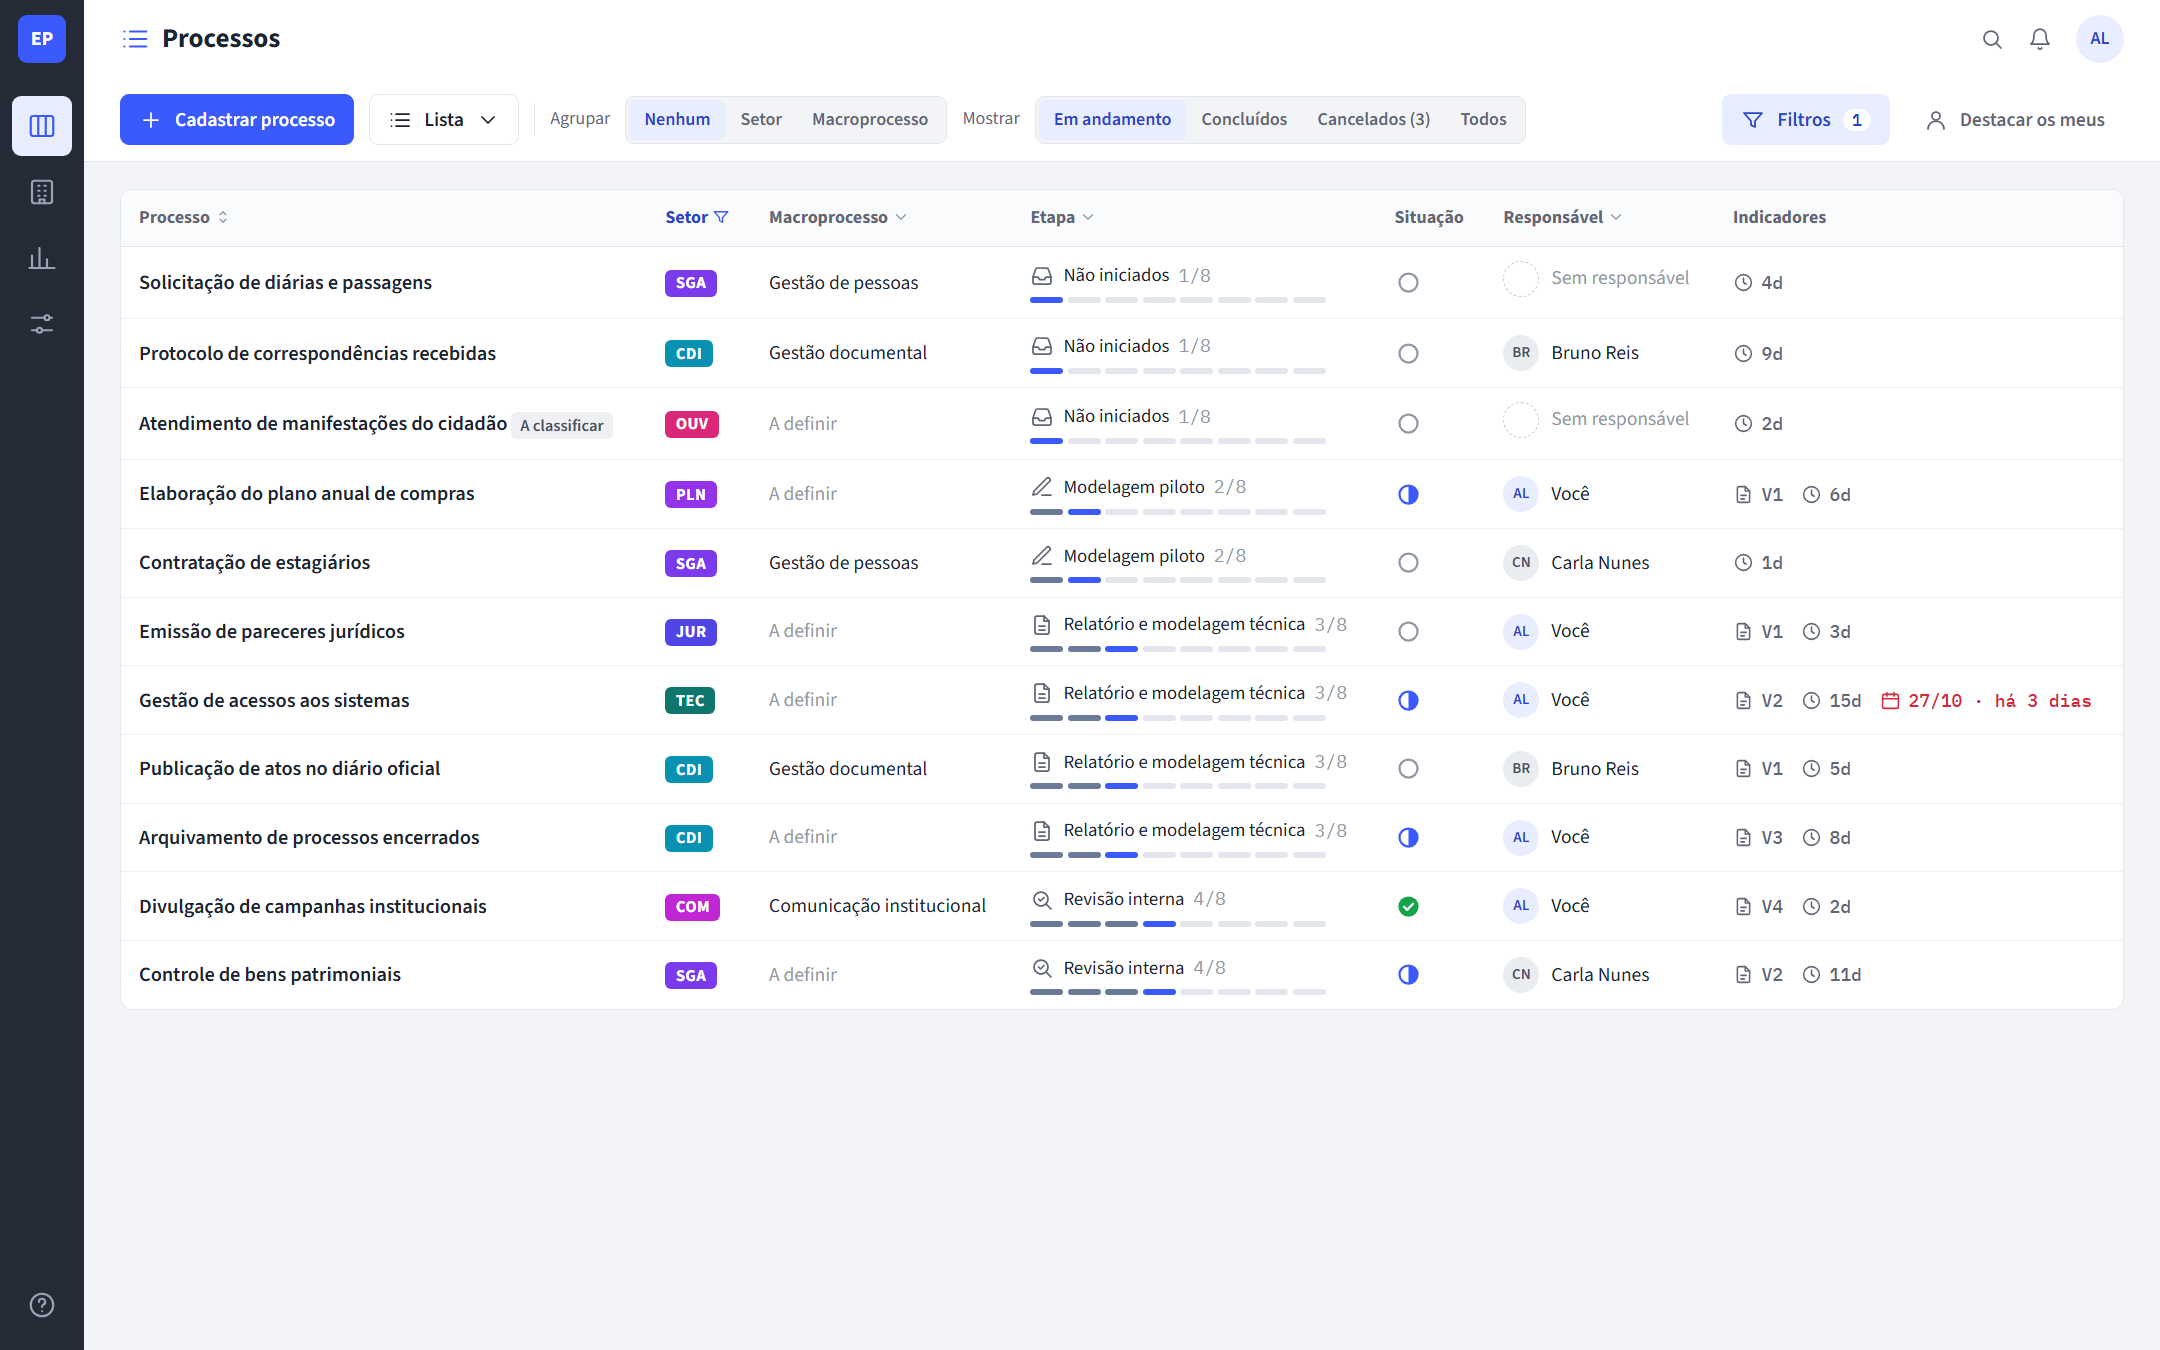
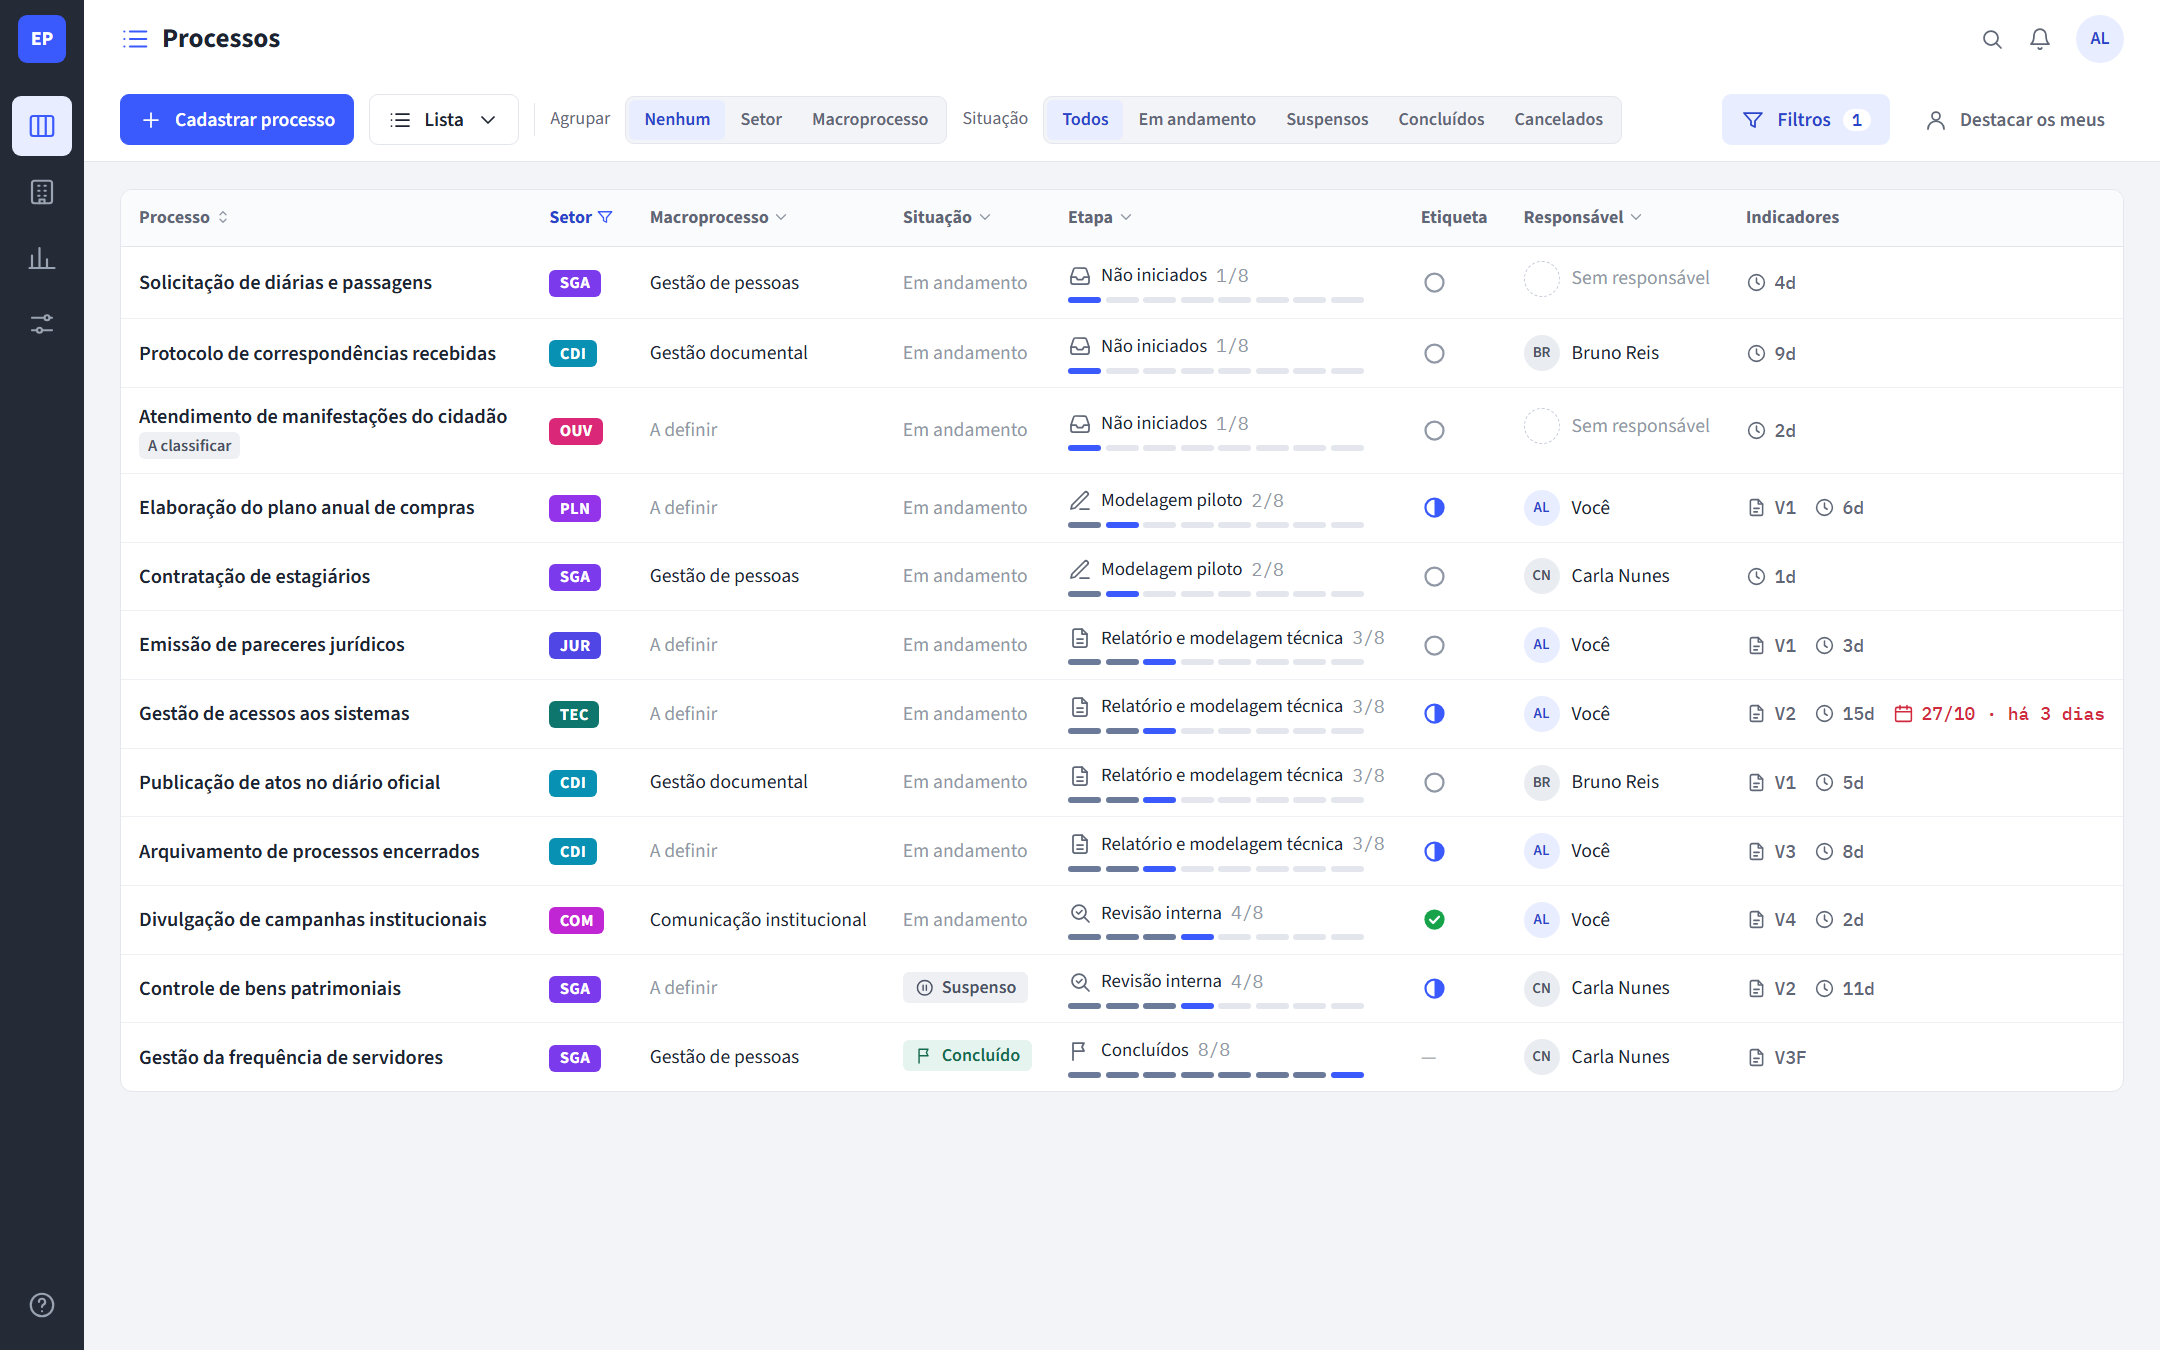
proposta visual da Lista: separa situação do processo e etiqueta da etapa

diff --git a/.scratch/proposta-visual/lista-e-cadastros.html b/.scratch/proposta-visual/lista-e-cadastros.html
@@ -34,14 +34,14 @@ svg.i{width:16px;height:16px;fill:none;stroke:currentColor;stroke-width:1.75;str
 .busca{display:inline-flex;align-items:center;gap:8px;height:34px;width:260px;border:1px solid var(--linha);border-radius:6px;padding:0 10px;color:var(--inativo);font-size:13px}
 .area{overflow:hidden;padding:18px 24px}
 .setor{font:700 11px 'Source Sans 3';letter-spacing:.3px;color:#fff;border-radius:4px;padding:1px 7px;display:inline-block}
-.tag{font:600 11px 'Source Sans 3';border-radius:4px;padding:1px 6px;background:#eef0f4;color:#4a5163}
+.tag{white-space:nowrap;display:inline-block;font:600 11px 'Source Sans 3';border-radius:4px;padding:1px 6px;background:#eef0f4;color:#4a5163}
 .mono{font-family:var(--mono);font-size:12px}
 /* Tabela */
 .tab{background:#fff;border:1px solid var(--linha);border-radius:8px;overflow:hidden;width:100%;border-collapse:separate;border-spacing:0}
 .tab th{position:sticky;top:0;background:#fafbfc;text-align:left;font-size:12px;font-weight:700;color:var(--texto-2);padding:10px 12px;border-bottom:1px solid var(--linha);white-space:nowrap}
 .tab th .i{width:12px;height:12px;vertical-align:-2px;color:var(--inativo)}.tab th.filtrada{color:var(--azul-escuro)}.tab th.filtrada .i{color:var(--azul)}
 .tab td{padding:9px 12px;border-bottom:1px solid #eef0f4;vertical-align:middle;white-space:nowrap}
-.tab tr:last-child td{border-bottom:0}
+.tab tr:last-child td{border-bottom:0}.tab td:first-child{white-space:normal;max-width:300px}
 .nome{font-weight:600;font-size:13.5px;color:var(--texto)}
 .muted{color:var(--inativo)}
 .etapa{display:flex;flex-direction:column;gap:5px;min-width:210px}.etapa .t{display:flex;align-items:center;gap:6px;font-size:12.5px}.etapa .t svg{color:var(--texto-2)}
@@ -49,6 +49,8 @@ svg.i{width:16px;height:16px;fill:none;stroke:currentColor;stroke-width:1.75;str
 .pessoa{display:inline-flex;align-items:center;gap:8px}
 .ind{display:inline-flex;align-items:center;gap:5px;font:500 12px var(--mono);color:var(--texto-2)}.ind.atraso{color:var(--atraso)}.ind.vence{color:var(--vence)}.ind svg{width:14px;height:14px}
 .st svg{width:18px;height:18px;display:block}
+.sit{display:inline-flex;align-items:center;gap:5px;font:600 12px 'Source Sans 3';border-radius:4px;padding:2px 8px}.sit svg{width:13px;height:13px}
+.sit-suspenso{background:#eef0f4;color:#4a5163}.sit-concluido{background:#e6f4ef;color:#166a4d}.sit-cancelado{background:#f3f4f6;color:var(--inativo)}
 .grupo td{background:#f6f7f9;font-weight:700;font-size:13.5px;padding:10px 12px}
 .grupo .c{display:flex;align-items:center;gap:8px}.grupo .n{font:500 12px var(--mono);color:var(--texto-2);font-weight:500}
 .sub td{font-weight:600;color:var(--texto-2);padding:8px 12px 8px 40px;font-size:12.5px}
@@ -112,6 +114,9 @@ svg.i{width:16px;height:16px;fill:none;stroke:currentColor;stroke-width:1.75;str
 <symbol id="e2" viewBox="0 0 24 24"><path d="M14 3H7a2 2 0 0 0-2 2v14a2 2 0 0 0 2 2h10a2 2 0 0 0 2-2V8z"/><path d="M14 3v5h5M9 13h6M9 17h6"/></symbol>
 <symbol id="e3" viewBox="0 0 24 24"><circle cx="11" cy="11" r="7"/><path d="M21 21l-4.3-4.3M8.5 11l2 2 3.5-3.5"/></symbol>
 <symbol id="e4" viewBox="0 0 24 24"><circle cx="9" cy="8" r="3.5"/><path d="M2.5 20a6.5 6.5 0 0 1 13 0M16 4.5a3.5 3.5 0 0 1 0 7M18 14a6 6 0 0 1 3.5 6"/></symbol>
+<symbol id="e6" viewBox="0 0 24 24"><path d="M22 2L11 13M22 2l-7 20-4-9-9-4z"/></symbol>
+<symbol id="e7" viewBox="0 0 24 24"><path d="M5 21V4M5 4h11l-2 4 2 4H5"/></symbol>
+<symbol id="bandeira" viewBox="0 0 24 24"><path d="M5 21V4M5 4h11l-2 4 2 4H5"/></symbol>
 <symbol id="e5" viewBox="0 0 24 24"><path d="M12 3l2.4 1.8 3-.2.9 2.9 2.5 1.7-1 2.8 1 2.8-2.5 1.7-.9 2.9-3-.2L12 21l-2.4-1.8-3 .2-.9-2.9L3.2 14.8l1-2.8-1-2.8 2.5-1.7.9-2.9 3 .2z"/><path d="M8.5 12l2.3 2.3 4.7-4.6"/></symbol>
 </svg>
 <aside class="lateral" id="lateral"></aside>
@@ -119,7 +124,10 @@ svg.i{width:16px;height:16px;fill:none;stroke:currentColor;stroke-width:1.75;str
 <div class="barra" id="barra"></div>
 <main class="area" id="area"></main>
 <script>
-const ETAPAS=['Não iniciados','Modelagem piloto','Relatório e modelagem técnica','Revisão interna','Validação com o setor','Aprovação pelo setor']
+const ETAPAS=['Não iniciados','Modelagem piloto','Relatório e modelagem técnica','Revisão interna','Validação com o setor','Aprovação pelo setor','Publicação','Concluídos']
+// Situação do processo (CONTEXT.md): em andamento, suspenso, cancelado ou concluído; não confundir com a etiqueta da etapa (A fazer, Iniciado, Finalizado).
+const SITUACAO={andamento:['Em andamento',''],suspenso:['Suspenso','pausa'],cancelado:['Cancelado','x'],concluido:['Concluído','bandeira']}
+const situacao=s=>s==='andamento'?'<span class="muted">Em andamento</span>':`<span class="sit sit-${s}">${ic(SITUACAO[s][1])}${SITUACAO[s][0]}</span>`
 // Paleta viva só para os selos de setor (a mesma da proposta 6).
 const SETORES={SGA:['Secretaria de Gestão Administrativa','#7c3aed'],CDI:['Coordenadoria de Documentação e Informação','#0891b2'],OUV:['Ouvidoria Geral','#db2777'],
 PLN:['Diretoria de Planejamento','#9333ea'],JUR:['Assessoria Jurídica','#4f46e5'],TEC:['Diretoria de Tecnologia','#0f766e'],COM:['Assessoria de Comunicação','#c026d3']}
@@ -130,7 +138,7 @@ const P=[['Solicitação de diárias e passagens','SGA',0,'a','',null,4,null,'Ge
 ['Contratação de estagiários','SGA',1,'a','CN',null,1,null,'Gestão de pessoas'],['Emissão de pareceres jurídicos','JUR',2,'a','AL','V1',3,null,'A definir'],
 ['Gestão de acessos aos sistemas','TEC',2,'i','AL','V2',15,['atraso','27/10 · há 3 dias'],'A definir'],['Publicação de atos no diário oficial','CDI',2,'a','BR','V1',5,null,'Gestão documental'],
 ['Arquivamento de processos encerrados','CDI',2,'i','AL','V3',8,null,'A definir'],['Divulgação de campanhas institucionais','COM',3,'f','AL','V4',2,null,'Comunicação institucional'],
-['Controle de bens patrimoniais','SGA',3,'i','CN','V2',11,null,'A definir'],['Monitoramento de indicadores','PLN',4,'a','BR','V4F',3,['vence','01/11 · em 2 dias'],'A definir'],
+['Controle de bens patrimoniais','SGA',3,'i','CN','V2',11,null,'A definir',null,'suspenso'],['Gestão da frequência de servidores','SGA',7,null,'CN','V3F',null,null,'Gestão de pessoas',null,'concluido'],['Monitoramento de indicadores','PLN',4,'a','BR','V4F',3,['vence','01/11 · em 2 dias'],'A definir'],
 ['Revisão de contratos de serviços','JUR',5,'i','CN','V5',7,null,'A definir']]
 const ROT={a:'A fazer',i:'Iniciado',f:'Finalizado'}
 const ST={a:'<circle cx="12" cy="12" r="8" fill="none" stroke="#9098a6" stroke-width="2"/>',i:'<circle cx="12" cy="12" r="8" fill="none" stroke="#3a5afe" stroke-width="2"/><path d="M12 4a8 8 0 0 1 0 16z" fill="#3a5afe"/>',
@@ -152,22 +160,22 @@ function moldura(area,titulo,icone){
 function barraDaLista(agrupar){document.getElementById('barra').innerHTML=`<button class="btn prim">${ic('mais')}Cadastrar processo</button>
  <button class="btn">${ic('lista')}Lista${ic('seta')}</button><span class="sep"></span>
  <span class="rot">Agrupar</span><span class="seg">${['Nenhum','Setor','Macroprocesso'].map(o=>`<button class="${o===agrupar?'sim':''}">${o}</button>`).join('')}</span>
- <span class="rot">Mostrar</span><span class="seg">${['Em andamento','Concluídos','Cancelados (3)','Todos'].map((o,i)=>`<button class="${i===0?'sim':''}">${o}</button>`).join('')}</span>
+ <span class="rot">Situação</span><span class="seg">${['Todos','Em andamento','Suspensos','Concluídos','Cancelados'].map((o,i)=>`<button class="${i===0?'sim':''}">${o}</button>`).join('')}</span>
  <span class="dir-barra">${agrupar==='Nenhum'?'':`<button class="btn leve icone" title="Abrir todos">${ic('camadas')}</button>`}<button class="btn on">${ic('filtro')}Filtros <em>1</em></button><button class="btn leve">${ic('pessoa')}Destacar os meus</button></span>`}
 // 'setor' esconde as colunas Setor e Macroprocesso (o grupo e o subgrupo já dizem); 'macro' esconde só Macroprocesso.
-const cabecalho=esconder=>`<tr><th>Processo ${ic('ordem')}</th>${esconder==='setor'?'':`<th class="filtrada">Setor ${ic('filtro')}</th>`}${esconder?'':`<th>Macroprocesso ${ic('seta')}</th>`}<th>Etapa ${ic('seta')}</th><th>Situação</th><th>Responsável ${ic('seta')}</th><th>Indicadores</th></tr>`
-function linha(p,esconder,rec=''){const[n,s,e,sit,r,v,d,pz,m,tipo]=p
+const cabecalho=esconder=>`<tr><th>Processo ${ic('ordem')}</th>${esconder==='setor'?'':`<th class="filtrada">Setor ${ic('filtro')}</th>`}${esconder?'':`<th>Macroprocesso ${ic('seta')}</th>`}<th>Situação ${ic('seta')}</th><th>Etapa ${ic('seta')}</th><th>Etiqueta</th><th>Responsável ${ic('seta')}</th><th>Indicadores</th></tr>`
+function linha(p,esconder,rec=''){const[n,s,e,sit,r,v,d,pz,m,tipo,situ='andamento']=p
  return `<tr class="${rec}"><td><span class="nome">${n}</span>${tipo?` <span class="tag">${tipo}</span>`:''}</td>${esconder==='setor'?'':`<td>${selo(s)}</td>`}${esconder?'':`<td class="${m==='A definir'?'muted':''}">${m}</td>`}
- <td>${etapa(e)}</td><td>${st(sit)}</td><td>${pessoa(r)}</td><td><span style="display:flex;gap:12px">${v?`<span class="ind">${ic('doc')}${v}</span>`:''}<span class="ind">${ic('relogio')}${d}d</span>${pz?`<span class="ind ${pz[0]}">${ic('cal')}${pz[1]}</span>`:''}</span></td></tr>`}
-const nCols=esconder=>esconder==='setor'?5:esconder?6:7
+ <td>${situacao(situ)}</td><td>${etapa(e)}</td><td>${sit?st(sit):'<span class="muted">—</span>'}</td><td>${pessoa(r)}</td><td><span style="display:flex;gap:12px">${v?`<span class="ind">${ic('doc')}${v}</span>`:''}${d?`<span class="ind">${ic('relogio')}${d}d</span>`:''}${pz?`<span class="ind ${pz[0]}">${ic('cal')}${pz[1]}</span>`:''}</span></td></tr>`}
+const nCols=esconder=>esconder==='setor'?6:esconder?7:8
 const grupo=(conteudo,n,esconder)=>`<tr class="grupo"><td colspan="${nCols(esconder)}"><span class="c">${ic('seta')}${conteudo}<span class="n">${n}</span></span></td></tr>`
-function lista(){barraDaLista('Nenhum');return `<table class="tab">${cabecalho('')}${P.slice(0,11).map(p=>linha(p,'')).join('')}</table>`}
+function lista(){barraDaLista('Nenhum');return `<table class="tab">${cabecalho('')}${P.slice(0,12).map(p=>linha(p,'')).join('')}</table>`}
 // Setor com um só macroprocesso pula o nível; com vários, mostra os subgrupos.
 function listaPorSetor(){barraDaLista('Setor');let h=cabecalho('setor')
  Object.entries(SETORES).slice(0,5).forEach(([s,[nm]])=>{const ps=P.filter(p=>p[1]===s);const macros=[...new Set(ps.map(p=>p[8]))]
   h+=grupo(`${selo(s)}${nm}${macros.length===1?` <span class="muted" style="font-weight:600">· ${macros[0]}</span>`:''}`,ps.length,'setor')
   if(macros.length===1){h+=ps.map(p=>linha(p,'setor','rec1')).join('');return}
-  macros.forEach(m=>{const pm=ps.filter(p=>p[8]===m);h+=`<tr class="sub"><td colspan="5">${m} <span class="mono muted">${pm.length}</span></td></tr>`+pm.map(p=>linha(p,'setor','rec2')).join('')})})
+  macros.forEach(m=>{const pm=ps.filter(p=>p[8]===m);h+=`<tr class="sub"><td colspan="6">${m} <span class="mono muted">${pm.length}</span></td></tr>`+pm.map(p=>linha(p,'setor','rec2')).join('')})})
  return `<table class="tab">${h}</table>`}
 function listaPorMacro(){barraDaLista('Macroprocesso');let h=cabecalho('macro')
  const cat={'Gestão de pessoas':'Apoio','Gestão documental':'Apoio','Comunicação institucional':'Gerencial','A definir':''}
@@ -193,7 +201,7 @@ function setorAberto(){moldura('setores','Setores','predio');document.getElement
  <div class="bloco"><h3>Dados do setor</h3><div class="campos"><div class="campo"><label>Nome <i>*</i></label><div class="entrada">Coordenadoria de Documentação e Informação</div></div>
  <div class="campo"><label>Sigla <i>*</i></label><div class="entrada">CDI</div></div><div class="campo todo"><label>Cor do selo</label>${coresDoSetor(1)}</div>
  <div class="campo todo"><label>Observações</label><div class="entrada alta">Opcional</div></div></div></div>
- <div class="bloco"><h3>Processos do setor <small>${ps.length}</small></h3><table class="tab" style="border:0">${'<tr><th>Processo</th><th>Etapa</th><th>Situação</th><th>Responsável</th></tr>'+ps.map(p=>`<tr><td class="nome">${p[0]}</td><td>${etapa(p[2])}</td><td>${st(p[3])}</td><td>${pessoa(p[4])}</td></tr>`).join('')}</table></div></div>`}
+ <div class="bloco"><h3>Processos do setor <small>${ps.length}</small></h3><table class="tab" style="border:0">${'<tr><th>Processo</th><th>Etapa</th><th>Etiqueta</th><th>Responsável</th></tr>'+ps.map(p=>`<tr><td class="nome">${p[0]}</td><td>${etapa(p[2])}</td><td>${st(p[3])}</td><td>${pessoa(p[4])}</td></tr>`).join('')}</table></div></div>`}
 function novoSetor(){const fundo=setores()
  return fundo+`<div class="veu"><div class="janela"><div class="t">Novo setor${ic('x')}</div><div class="c">
  <div class="campos"><div class="campo"><label>Nome <i>*</i></label><div class="entrada"></div></div><div class="campo"><label>Sigla <i>*</i></label><div class="entrada"></div></div></div>

diff --git a/.scratch/proposta-visual/proposta-6.html b/.scratch/proposta-visual/proposta-6.html
@@ -121,7 +121,7 @@ const ST={a:'<circle cx="12" cy="12" r="8" fill="none" stroke="#9098a6" stroke-w
 i:'<circle cx="12" cy="12" r="8" fill="none" stroke="#3a5afe" stroke-width="2"/><path d="M12 4a8 8 0 0 1 0 16z" fill="#3a5afe"/>',
 f:'<circle cx="12" cy="12" r="9" fill="#16a34a"/><path d="M8 12.2l2.8 2.8 5.2-5.4" fill="none" stroke="#fff" stroke-width="2" stroke-linecap="round" stroke-linejoin="round"/>'}
 const ic=(n,c='')=>`<svg class="i ${c}"><use href="#${n}"/></svg>`
-const st=s=>`<span class="st" title="${ROT[s]}" aria-label="Situação: ${ROT[s]}"><svg viewBox="0 0 24 24">${ST[s]}</svg></span>`
+const st=s=>`<span class="st" title="${ROT[s]}" aria-label="Etiqueta: ${ROT[s]}"><svg viewBox="0 0 24 24">${ST[s]}</svg></span>`
 const selo=s=>`<span class="setor" style="background:${SETORES[s][1]}" title="${SETORES[s][0]}">${s}</span>`
 const av=r=>r?`<span class="av ${r==='AL'?'eu':''}" title="${PESSOAS[r]}">${r}</span>`:''
 const visao=location.hash.slice(1)||'etapas'

diff --git a/.scratch/analise-de-design-lista-e-cadastros-2026-10-30.md b/.scratch/analise-de-design-lista-e-cadastros-2026-10-30.md
@@ -9,6 +9,13 @@ Complemento de `.scratch/analise-de-design-2026-10-30.md`. Telas vistas no app r
 
 Nada foi salvo nem alterado. Referência visual de destino: a proposta visual 6 (`.scratch/proposta-visual/proposta-6.html`).
 
+**Correção de termos (2026-10-30, apontada pelo usuário).** Os ícones A fazer, Iniciado e Finalizado são a **etiqueta** da etapa atual. A **situação do processo** (`CONTEXT.md`) é em andamento, suspenso, cancelado ou concluído; concluído é o processo que chegou à etapa Concluídos. O protótipo `lista-e-cadastros.html` foi corrigido:
+- a coluna dos ícones se chama "Etiqueta";
+- a coluna "Situação" mostra a situação do processo, com "Em andamento" discreto e as exceções (Suspenso, Concluído, Cancelado) em destaque;
+- o controle "Mostrar" virou "Situação: Todos | Em andamento | Suspensos | Concluídos | Cancelados".
+
+"Todos" segue a regra do `CONTEXT.md`: cancelados só aparecem quando pedidos. Onde este texto diz "situação" para os ícones, leia "etiqueta". A proposta de juntar "Concluídos" e "Cancelados" num só controle continua valendo, agora com "Suspensos" incluído, que faltava.
+
 ## Nota geral (heurísticas de Nielsen, 0 a 4)
 
 | # | Heurística | Lista | Cadastros | Principal problema |

diff --git a/.scratch/analise-de-design-2026-10-30.md b/.scratch/analise-de-design-2026-10-30.md
@@ -2,6 +2,8 @@
 
 Sessão de conversa (fora do funil). Telas vistas no app rodando (localhost, 1440×900), com login do usuário: Quadro por etapa, por setor e por responsável, "Só os meus", Lista, cartão aberto, Novo processo, Setores (Setores, Macroprocessos, Histórico), Administração (Usuários, Catálogo de etapas, Planilhas). Método: avaliação num único contexto, sem subagentes; detector automático do Impeccable sem achados relevantes (1 aviso: canto de 1px em `Quadro.css:262`).
 
+**Correção de termos (2026-10-30, apontada pelo usuário).** Onde este texto chama de "situação" os estados A fazer, Iniciado e Finalizado, leia **etiqueta** (`CONTEXT.md`). Situação do processo é outra coisa: em andamento, suspenso, cancelado ou concluído. As propostas visuais seguem valendo, mas no texto da interface o nome é "etiqueta".
+
 ## Nota geral (heurísticas de Nielsen, 0 a 4)
 
 | # | Heurística | Nota | Principal problema |
